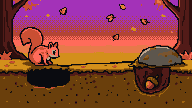
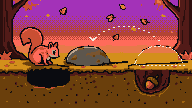
fix(blog): rework the Keyspaces and break-hashmap covers
Keyspaces: a holed lily pad said "damaged", which is not the post's point: it
looks like a drop-in Cassandra and isn't. Now four ducks look alike above the
water, and below it one is a wooden decoy on a cord. Painted, seed 11, untouched,
so pixelate.py's hint remakes its PNG exactly.

break-hashmap: the squirrel only seemed to be digging in the wrong place. Now the
marker stone has moved beside its empty hole, and a dashed ghost and path show
where the stone was, over the acorn: the key changed, so the lookup goes wrong.
Same painting and squirrel, with the stone moved in code; no fresh paint or model
edit showed this clearly.

paint_covers.py now says the committed PNGs are the final art: the 7 touched
covers can't be remade without their gitignored candidates, which is accepted.
The blog-art.html comment describes painted covers; its build hint is unchanged.

Refs #125

diff --git a/layouts/partials/blog-art.html b/layouts/partials/blog-art.html
@@ -1,4 +1,4 @@
-{{/* A post's pixel cover (static/images/blog/covers/pixel/, drawn from its photo by web3d/pixel/pixelate.py) and
+{{/* A post's pixel cover (static/images/blog/covers/pixel/, from its painting: web3d/pixel/paint_covers.py paints, web3d/pixel/pixelate.py pixelates) and
      its accent, one of the job floors' colours (data/floor_accents.yaml), picked by the title so a post keeps it everywhere. */}}
 {{ $cover := "" }}
 {{ with .Params.images.featured_image }}

diff --git a/web3d/pixel/paint_covers.py b/web3d/pixel/paint_covers.py
@@ -11,7 +11,10 @@ to web3d/pixel/paintings/candidates/cover-<slug>_<seed>.png (gitignored). They a
 redraw a seed bit for bit, so static/images/blog/covers/<slug>.jpg is the source from here on. An untouched cover's .jpg is
 its painting and its PNG comes from pixelate.py's plain hint (layouts/partials/blog-art.html). A cover touched up in code
 below has no painting that matches, so its .jpg is a 6x nearest-neighbour upscale of the PNG, and the share card matches
-the post; the hint only approximates such a PNG, so redo it from the candidate with --install.
+the post; the hint only approximates such a PNG.
+
+The committed PNGs are the final art. The 7 covers with a sky or touch-up below cannot be remade without their gitignored
+candidates, and that is accepted: --install needs those local files, and a fresh paint of the same seed will differ.
 """
 import argparse
 import base64
@@ -44,7 +47,7 @@ COVERS = {
      " four high, most holding one drop of honey and one bee each. In the very middle of the comb, three big "
      "bees hover nose to tail in a line, queueing at one single cell. Every bee is well inside the picture.",
      None),
-    "break-hashmap-less-than-a-minute": (22, "The key changed, so the squirrel digs in the wrong place: the acorn is safe, nobody home.",
+    "break-hashmap-less-than-a-minute": (22, "The marker stone moved, so the squirrel digs under it and finds nothing: the acorn is where the stone was.",
      "An autumn forest floor at dusk, violet and orange sky, falling orange leaves, shown as a cut-away with the"
      " soil below. On the left a red squirrel stands at a deep hole it has just dug, looking down into it: the "
      "hole is empty. Far to the right, under a mossy stone, the cut-away soil shows its acorn safely buried "
@@ -86,11 +89,13 @@ COVERS = {
      "upright stone slab on the right. On the slab is a mosaic made of big square coloured tiles in a strict "
      "grid, nearly complete: together the tiles show a sun over green hills. One square gap waits for its tile.",
      None),
-    "amazon-keyspaces-problematic": (55, "A giant Amazon water lily that looks able to bear you, with four holes in it.",
-     "A jungle river at a hot orange sunset, dark rainforest behind. Seen from slightly above, one giant flat "
-     "round water lily pad floats in the centre, wide and bright green with a thin upturned rim and radiating "
-     "veins. Four big ragged holes are torn in the flat leaf, dark water showing through each, and one edge is "
-     "sinking under the water. A worried brown capybara stands on the pad.",
+    "amazon-keyspaces-problematic": (11, "Four ducks look alike above the water; below it, one is a wooden decoy on a cord.",
+     "A bright golden evening over a clear pond, pale gold and peach sky, reeds at the edges. Side-on cut-away "
+     "at the waterline, with clear blue water filling the lower half of the picture. Four big identical mallard "
+     "ducks float in a straight row, each large and clearly separate. Above the waterline all four look exactly "
+     "alike. Below the waterline, the first three have orange webbed feet paddling. The fourth duck, on the "
+     "right, has no feet at all: under the water it is a flat block of plain wood with a cord running straight "
+     "down to a stone on the pond bed.",
      None),
     "fix-misconfigurations-redistemplate": (11, "The fish is right there, but the heron cannot get through the ice: stored, yet null.",
      "A frozen lake at winter dusk, violet and cold blue sky, snowy firs in the distance, shown as a cut-away "
@@ -229,7 +234,38 @@ def notes(img):
     return Image.fromarray(a, "RGB")
 
 
-TOUCH_UPS = {"design-patterns-prototype": clones, "interview-questions-concurrency-parallelism": trail,
+CREAM = (242, 236, 224)
+STONE = [(134, 64), (138, 55), (143, 50), (151, 46), (160, 45), (170, 47), (176, 52), (182, 61), (184, 65), (140, 66)]
+
+
+def moved_stone(img):
+    """break-hashmap: the point is that the key changed, which no painting drew clearly. The stone moves next to the squirrel's
+    empty hole, and a dashed ghost of it stays over the acorn, with the path it took."""
+    a = np.asarray(img).copy()
+    shape = Image.new("L", SIZE)
+    ImageDraw.Draw(shape).polygon(STONE, fill=255)
+    mask = np.asarray(shape) > 0
+    ys, xs = np.nonzero(mask)
+    stone = a[ys, xs].copy()
+    for y, x in zip(ys, xs):
+        a[y, x] = a[y, 124 + (x - 124) % 4] if x < 178 else a[y, 186]  # the sky beside it, in the dither's phase
+    a[60:70, 128:188] = a[60:70, 68:128]                               # the leaf litter runs on where the stone sat
+    a[ys, xs - 72] = stone
+    edge = mask & ~(np.roll(mask, 1, 0) & np.roll(mask, -1, 0) & np.roll(mask, 1, 1) & np.roll(mask, -1, 1))
+    for y, x in zip(*np.nonzero(edge)):
+        if (x + y) % 4 < 2:
+            a[y, x] = CREAM
+    for i in range(0, 41, 3):                                          # the way it went, ending in a head at the stone
+        t = i / 40
+        x, y = int(158 - 66 * t), int(40 - 14 * (1 - (2 * t - 1) ** 2))
+        a[y, x:x + 2] = CREAM
+    for j in range(4):
+        a[37 + j, 89 + j:91 + j] = CREAM
+        a[37 + j, 95 - j:97 - j] = CREAM
+    return Image.fromarray(a, "RGB")
+
+
+TOUCH_UPS = {"break-hashmap-less-than-a-minute": moved_stone, "design-patterns-prototype": clones, "interview-questions-concurrency-parallelism": trail,
              "build-twitter-bot-kotlin": notes}
 
 
